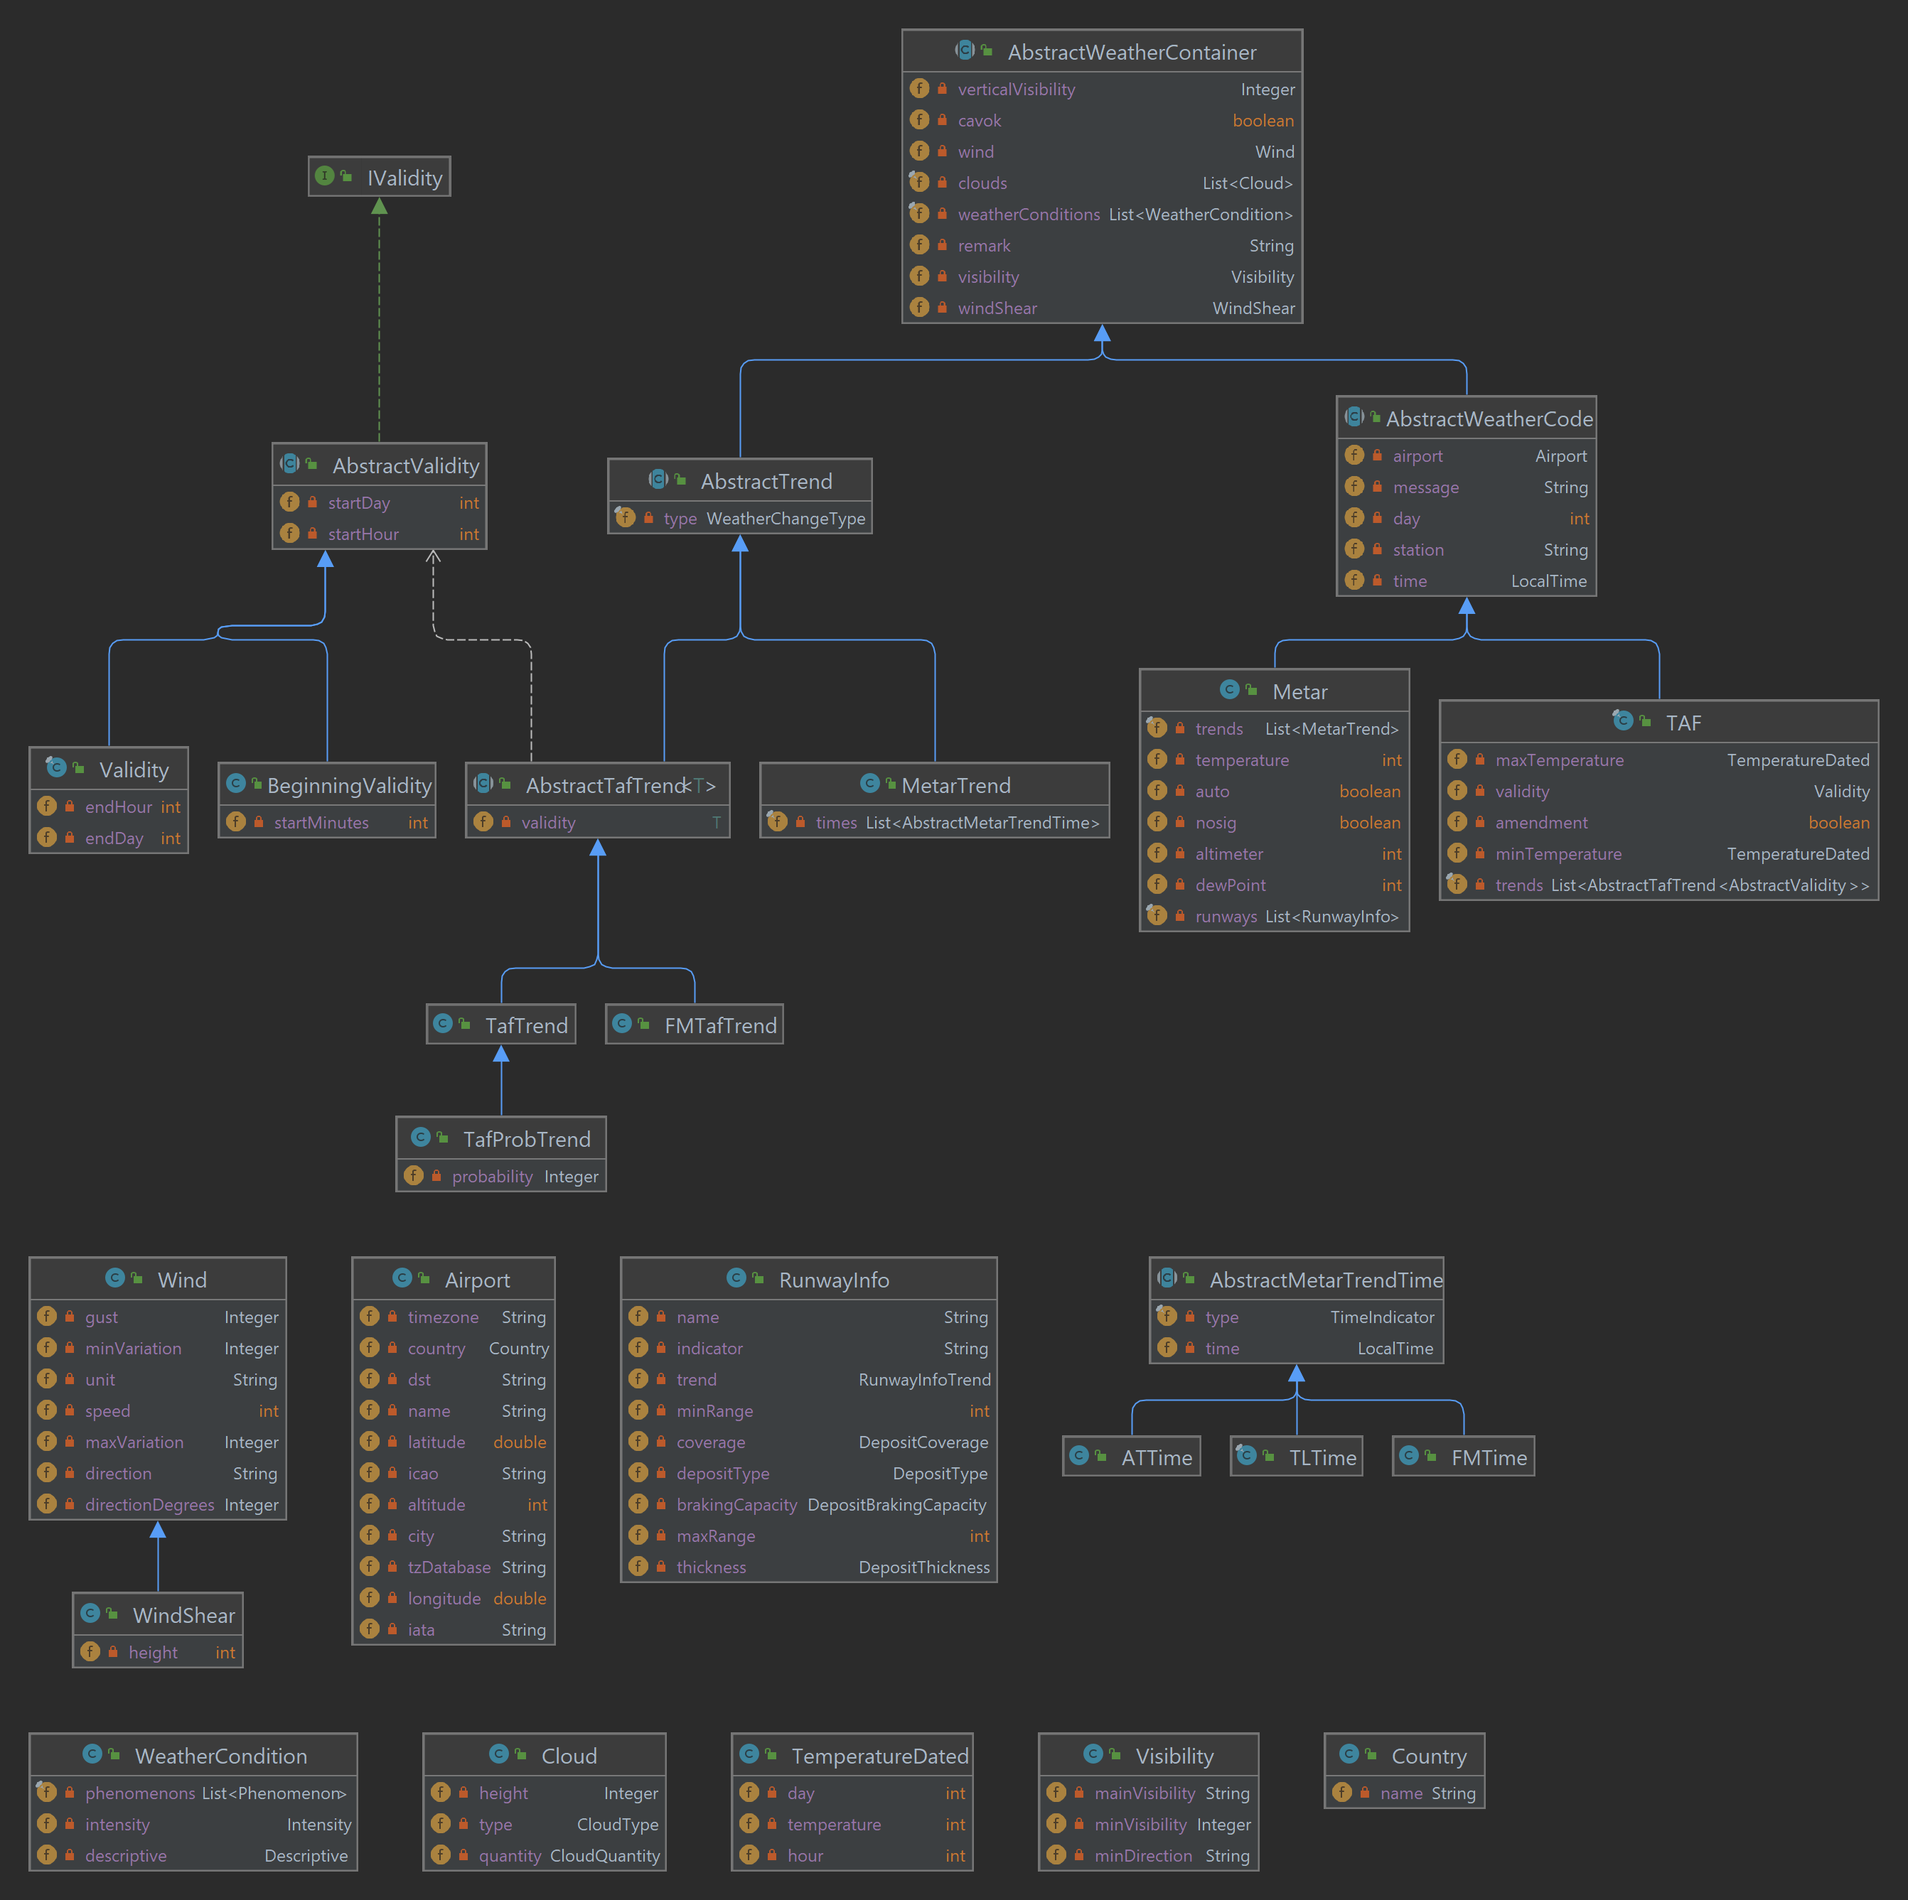
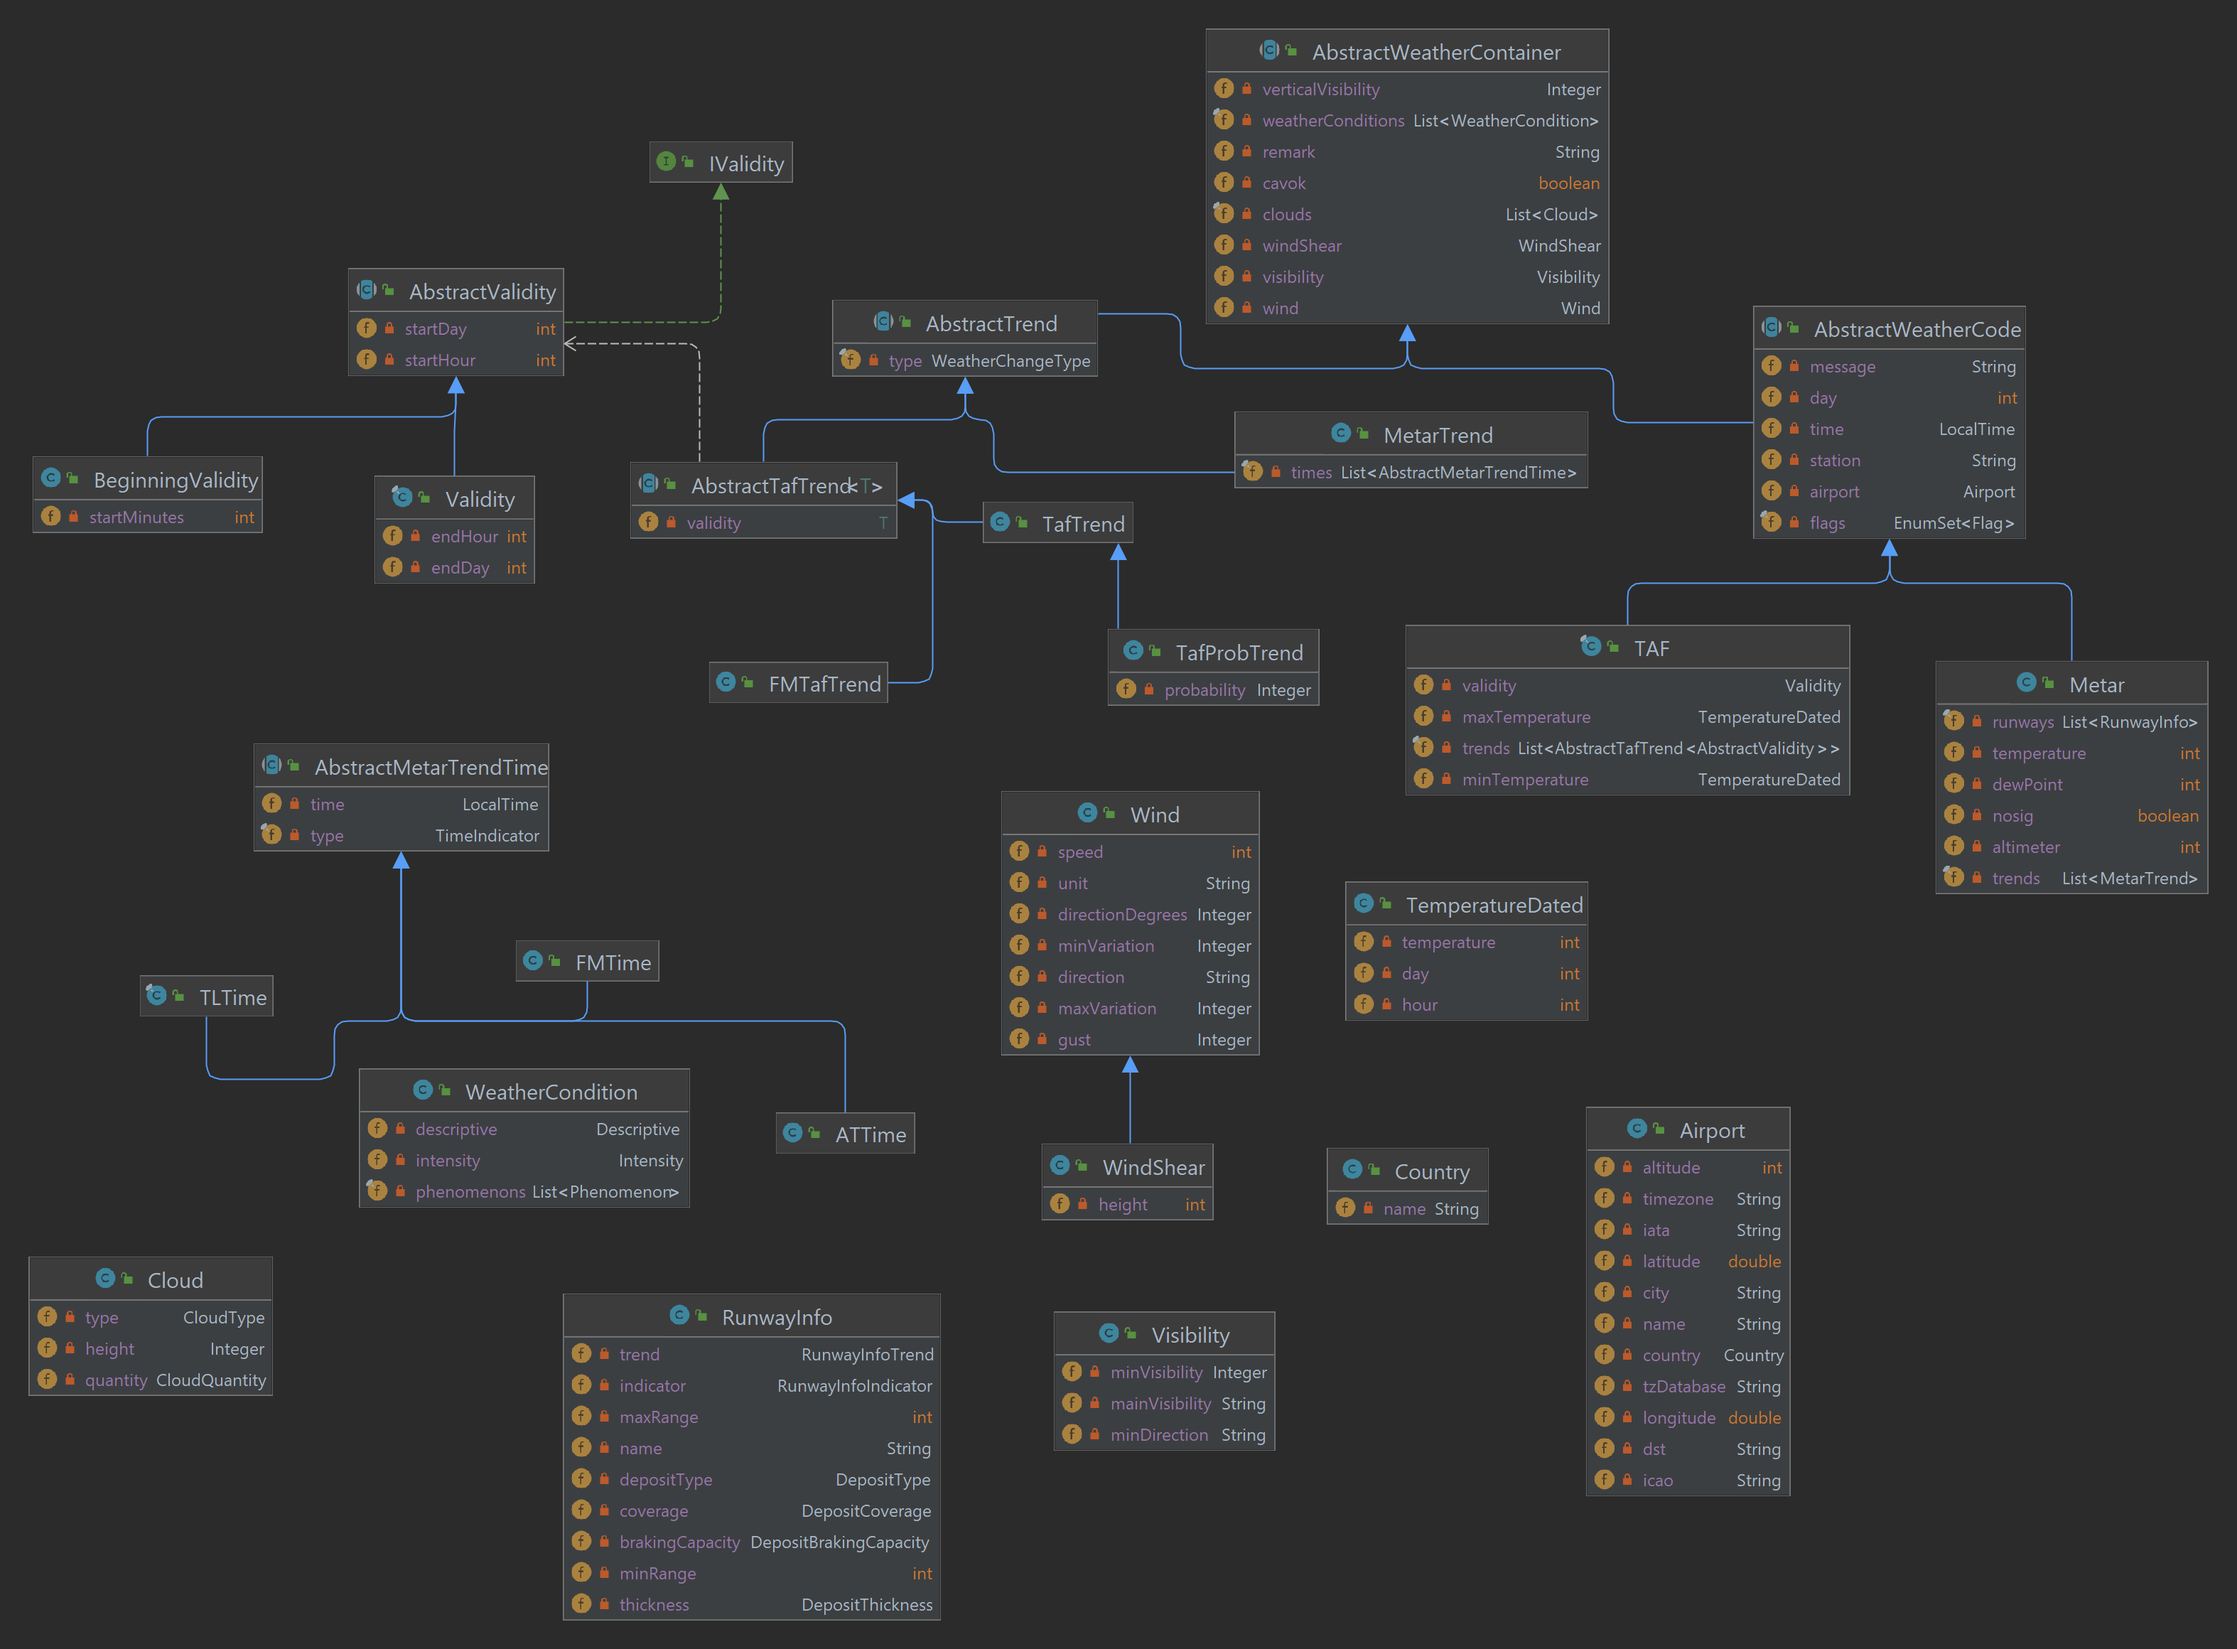
Added flags field to AbstractWeatherCode
This field is an enumSet to hold possible values: AUTO, AMD, CNL, COR or NIL.
Added methods to retrieve is flags are set.

diff --git a/metarParser-entities/src/main/java/io/github/mivek/model/AbstractWeatherCode.java b/metarParser-entities/src/main/java/io/github/mivek/model/AbstractWeatherCode.java
@@ -1,6 +1,9 @@
 package io.github.mivek.model;
 
+import io.github.mivek.enums.Flag;
 import io.github.mivek.internationalization.Messages;
+import java.util.EnumSet;
+import java.util.Set;
 import org.apache.commons.lang3.builder.ToStringBuilder;
 
 import java.time.LocalTime;
@@ -22,6 +25,16 @@ public abstract class AbstractWeatherCode extends AbstractWeatherContainer {
     /** The identifier of the station. */
     private String station;
 
+    /** Holds the flag of the code. */
+    private final EnumSet<Flag> flags;
+
+    /**
+     * Default constructor.
+     */
+    protected AbstractWeatherCode() {
+        super();
+        flags = EnumSet.noneOf(Flag.class);
+    }
     /**
      * @return the day
      */
@@ -93,6 +106,48 @@ public abstract class AbstractWeatherCode extends AbstractWeatherContainer {
     }
 
     /**
+     * @return The flags of the weatherCode.
+     */
+    public Set<Flag> getFlags() {
+        return flags;
+    }
+
+    /**
+     * @return the auto
+     */
+    public boolean isAuto() {
+        return getFlags().contains(Flag.AUTO);
+    }
+
+    /**
+     * @return the amendment
+     */
+    public boolean isAmendment() {
+        return getFlags().contains(Flag.AMD);
+    }
+
+    /**
+     * @return True when the code is canceled.
+     */
+    public boolean isCancelled() {
+        return getFlags().contains(Flag.CNL);
+    }
+
+    /**
+     * @return Return true if the code is nil.
+     */
+    public boolean isNil() {
+        return getFlags().contains(Flag.NIL);
+    }
+
+    /**
+     * @return True if the code is corrected.
+     */
+    public boolean isCorrected() {
+        return getFlags().contains(Flag.COR);
+    }
+
+    /**
      * @return a description of the object.
      */
     @Override
@@ -103,6 +158,7 @@ public abstract class AbstractWeatherCode extends AbstractWeatherContainer {
                 append(Messages.getInstance().getString("ToString.airport"), airport).
                 appendSuper(super.toString()).
                 append(Messages.getInstance().getString("ToString.message"), message).
+                append(Messages.getInstance().getString("ToString.flags"), flags).
                 toString();
     }
 }

diff --git a/metarParser-entities/src/main/java/io/github/mivek/model/TAF.java b/metarParser-entities/src/main/java/io/github/mivek/model/TAF.java
@@ -26,8 +26,6 @@ public final class TAF extends AbstractWeatherCode {
     private TemperatureDated minTemperature;
     /** List of From changes. */
     private final List<AbstractTafTrend<? extends AbstractValidity>> trends;
-    /** Indicate if the taf event is amended. */
-    private boolean amendment;
 
     /**
      * Constructor.
@@ -115,20 +113,6 @@ public final class TAF extends AbstractWeatherCode {
     }
 
     /**
-     * @return the amendment
-     */
-    public boolean isAmendment() {
-        return amendment;
-    }
-
-    /**
-     * @param amendment the amendment to set
-     */
-    public void setAmendment(final boolean amendment) {
-        this.amendment = amendment;
-    }
-
-    /**
      * Adds a trend to the trend list.
      * @param trend The trend to add.
      */
@@ -139,7 +123,7 @@ public final class TAF extends AbstractWeatherCode {
     @Override
     public String toString() {
         return new ToStringBuilder(this).appendSuper(super.toString()).appendToString(validity.toString()).append(Messages.getInstance().getString("ToString.temperature.max"), maxTemperature)
-                .append(Messages.getInstance().getString("ToString.temperature.min"), minTemperature).append(Messages.getInstance().getString("ToString.amendment"), amendment)
+                .append(Messages.getInstance().getString("ToString.temperature.min"), minTemperature).append(Messages.getInstance().getString("ToString.amendment"), isAmendment())
                 .appendToString(trends.toString()).toString();
     }
 }

diff --git a/metarParser-entities/src/main/java/io/github/mivek/model/Metar.java b/metarParser-entities/src/main/java/io/github/mivek/model/Metar.java
@@ -22,8 +22,6 @@ public class Metar extends AbstractWeatherCode {
     private int altimeter;
     /** Nosig value. */
     private boolean nosig;
-    /** Auto Value. */
-    private boolean auto;
     /** List of runways information. */
     private final List<RunwayInfo> runways;
     /** List of trends. */
@@ -111,20 +109,6 @@ public class Metar extends AbstractWeatherCode {
     }
 
     /**
-     * @return the auto
-     */
-    public boolean isAuto() {
-        return auto;
-    }
-
-    /**
-     * @param auto the auto to set
-     */
-    public void setAuto(final boolean auto) {
-        this.auto = auto;
-    }
-
-    /**
      * Adds a trend to the list.
      *
      * @param trend the trend to add.
@@ -148,7 +132,7 @@ public class Metar extends AbstractWeatherCode {
                 append(Messages.getInstance().getString("ToString.dew.point"), dewPoint).
                 append(Messages.getInstance().getString("ToString.altimeter"), altimeter).
                 append(Messages.getInstance().getString("ToString.nosig"), nosig).
-                append(Messages.getInstance().getString("ToString.auto"), auto).
+                append(Messages.getInstance().getString("ToString.auto"), isAuto()).
                 append(Messages.getInstance().getString("ToString.runway.info"), runways.toString()).
                 append(Messages.getInstance().getString("ToString.trends"), trends.toString()).
                 toString();

diff --git a/metarParser-parsers/src/main/java/io/github/mivek/parser/AbstractWeatherCodeParser.java b/metarParser-parsers/src/main/java/io/github/mivek/parser/AbstractWeatherCodeParser.java
@@ -2,6 +2,7 @@ package io.github.mivek.parser;
 
 import io.github.mivek.command.AirportSupplier;
 import io.github.mivek.command.common.CommonCommandSupplier;
+import io.github.mivek.enums.Flag;
 import io.github.mivek.model.AbstractWeatherCode;
 import java.time.LocalTime;
 import java.util.Objects;
@@ -51,6 +52,21 @@ public abstract class AbstractWeatherCodeParser<T extends AbstractWeatherCode> e
         int minutes = Integer.parseInt(time.substring(4, 6));
         LocalTime t = LocalTime.of(hours, minutes);
         weatherCode.setTime(t);
+    }
+
+    /**
+     * Adds flags to the WeatherCode.
+     * @param weatherCode The weathercode to update
+     * @param flag The string to test.
+     * @return True if the flag was added.
+     */
+    boolean parseFlags(final AbstractWeatherCode weatherCode, final String flag) {
+        try {
+            weatherCode.getFlags().add(Flag.valueOf(flag));
+            return true;
+        } catch (IllegalArgumentException ignored) {
+            return false;
+        }
     }
 
     /**

diff --git a/metarParser-parsers/src/test/java/io/github/mivek/parser/TAFParserTest.java b/metarParser-parsers/src/test/java/io/github/mivek/parser/TAFParserTest.java
@@ -785,4 +785,21 @@ class TAFParserTest extends AbstractWeatherCodeParserTest<TAF> {
         assertEquals("P9SM", taf.getFMs().get(3).getVisibility().getMainVisibility());
     }
 
+    @Test
+    void testParseCanceled() throws ParseException {
+        String code = "TAF VTBD 281000Z 2812/2912 CNL=";
+
+        TAF taf = parser.parse(code);
+
+        assertTrue(taf.isCancelled());
+    }
+
+    @Test
+    void testParseCorrected() throws ParseException {
+        String code = "TAF COR EDDS 201148Z 2012/2112 31010KT CAVOK BECMG 2018/2021 33004KT BECMG 2106/2109 07005KT";
+
+        TAF taf = parser.parse(code);
+
+        assertTrue(taf.isCorrected());
+    }
 }

diff --git a/metarParser-parsers/src/main/java/io/github/mivek/parser/TAFParser.java b/metarParser-parsers/src/main/java/io/github/mivek/parser/TAFParser.java
@@ -68,8 +68,7 @@ public final class TAFParser extends AbstractWeatherCodeParser<TAF> {
             i = 2;
         }
         // Handle case the taf event is AMD.
-        if ("AMD".equals(line1parts[i])) {
-            taf.setAmendment(true);
+        if (parseFlags(taf, line1parts[i])) {
             i++;
         }
         // Airport
@@ -95,6 +94,7 @@ public final class TAFParser extends AbstractWeatherCodeParser<TAF> {
             } else if (part.startsWith(TN)) {
                 taf.setMinTemperature(parseTemperature(part));
             } else {
+                parseFlags(taf, part);
                 generalParse(taf, part);
             }
         }

diff --git a/metarParser-parsers/src/main/java/io/github/mivek/parser/MetarParser.java b/metarParser-parsers/src/main/java/io/github/mivek/parser/MetarParser.java
@@ -74,11 +74,9 @@ public final class MetarParser extends AbstractWeatherCodeParser<Metar> {
         int metarTabLength = metarTab.length;
         int i = 2;
         while (i < metarTabLength) {
-            if (!generalParse(m, metarTab[i])) {
+            if (!generalParse(m, metarTab[i]) && !parseFlags(m, metarTab[i])) {
                 if ("NOSIG".equals(metarTab[i])) {
                     m.setNosig(true);
-                } else if ("AUTO".equals(metarTab[i])) {
-                    m.setAuto(true);
                 } else if (RMK.equals(metarTab[i])) {
                     parseRMK(m, metarTab, i);
                     break;

diff --git a/metarParser-entities/src/main/java/io/github/mivek/enums/Flag.java b/metarParser-entities/src/main/java/io/github/mivek/enums/Flag.java
@@ -1,0 +1,24 @@
+package io.github.mivek.enums;
+
+import io.github.mivek.internationalization.Messages;
+
+/**
+ * @author Jean-Kevin KPADEY
+ */
+public enum Flag {
+  /** Amended. */
+  AMD,
+  /** Auto. */
+  AUTO,
+  /** Cancelled. */
+  CNL,
+  /** Corrected. */
+  COR,
+  /** Null. */
+  NIL;
+
+  @Override
+  public String toString() {
+    return Messages.getInstance().getString("Flag." + name());
+  }
+}

diff --git a/metarParser-parsers/src/test/java/io/github/mivek/parser/MetarParserTest.java b/metarParser-parsers/src/test/java/io/github/mivek/parser/MetarParserTest.java
@@ -402,4 +402,11 @@ class MetarParserTest extends AbstractWeatherCodeParserTest<Metar> {
         assertEquals(2000, m.getVisibility().getMinVisibility());
         assertEquals("SW", m.getVisibility().getMinDirection());
     }
+
+    @Test
+    void testParseNil() {
+        String code = "SVMC 211703Z AUTO NIL";
+        Metar m = parser.parse(code);
+        assertTrue(m.isNil());
+    }
 }
